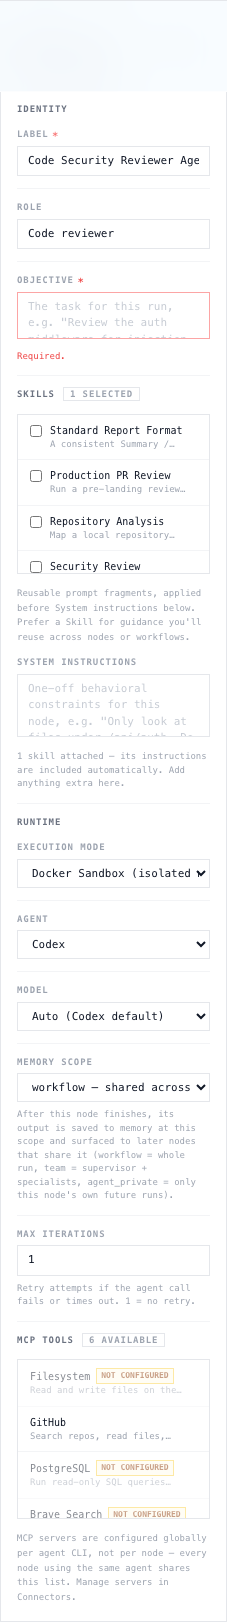
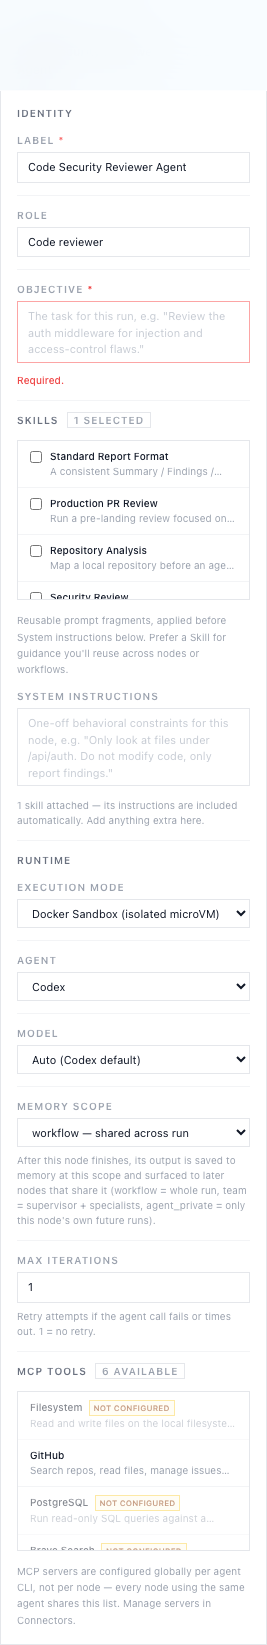
docs: refresh Workflow Builder screenshots and prose after enterprise polish
Re-captured the builder and inspector screenshots from the restyled UI
(sans chrome, breadcrumb, palette descriptions, agent/model chips) and
updated the guide prose to cover the Tidy layout button, resizable
inspector, delete confirmation, and labeled conditional edges.

diff --git a/docs/docs/guides/workflow-execution.md b/docs/docs/guides/workflow-execution.md
@@ -45,17 +45,23 @@ workflow, each with status badge, start time, and a link to the full run view.
 ## Workflow Builder (`src/pages/WorkflowBuilder.tsx`)
 
 The Builder is a three-column layout: a drag-and-drop palette on the left, a
-React Flow canvas in the center, and a per-node inspector on the right.
+React Flow canvas in the center, and a per-node inspector on the right (the
+inspector is drag-resizable from its left edge). A breadcrumb
+(`Workflows › <name>`) links back to the list, and the toolbar includes
+**Tidy layout** (auto-arranges nodes into topological columns), template
+loading, an auto-save toggle, and Run/History actions. Deleting a selection
+from the toolbar asks for confirmation; keyboard Delete stays immediate.
 
 ![Workflow Builder — Security Review Team graph on the canvas, with the palette (Agents, Control Flow, Memory, Notifications categories) on the left](/img/workflow-execution/workflow-builder.png)
 
-The palette groups nodes by category:
+The palette groups nodes by category (each item shows a one-line description):
 
 - **Agents** — Generic Supervisor, Smart Supervisor (LLM-driven planning),
   Specialist Agent, Report Writer (pre-attaches the "Standard Report Format"
   skill), Aggregator (combines parallel-branch outputs).
 - **Control Flow** — Human Approval, Conditional (branches the graph on a
-  yes/no LLM judgment).
+  yes/no LLM judgment; its true/false edges are labeled in green/red on the
+  canvas).
 - **Memory** — Write Memory.
 - **Notifications** — Webhook (POSTs a payload to an external URL).
 
